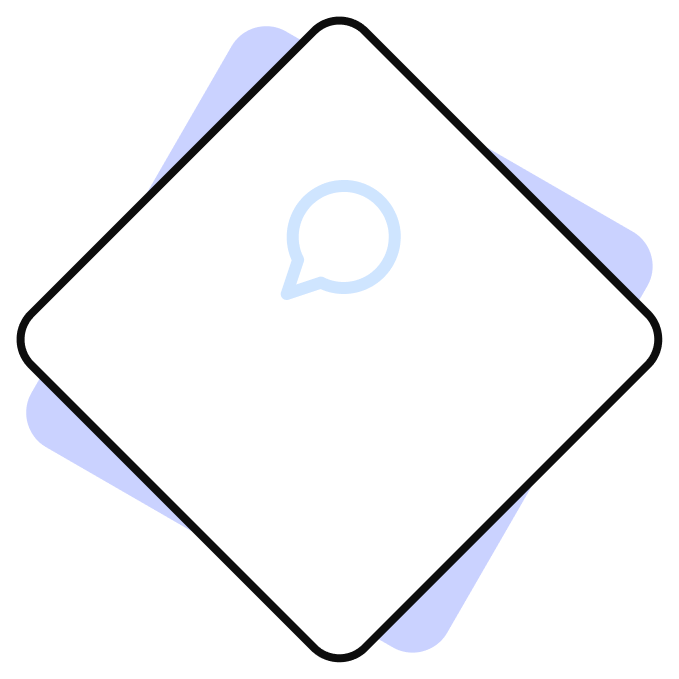
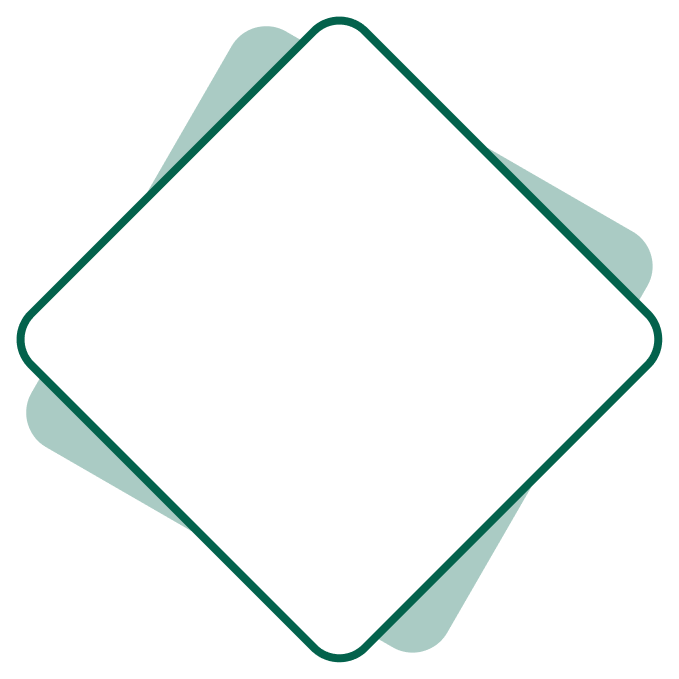
edited some sections was made footer and edited 1st section

diff --git a/landing.html b/landing.html
@@ -91,24 +91,38 @@
                         </div>
                     </div>
                     <div class="col-lg-6">
-                        <div class="diamond-container">
-                            <div class="diamond top">
-                                <!-- <img src="images/part.svg" alt=""> -->
-                                <p>Точность<br>исполнения</p>
+                        <div class="diamond-section">
+                            <div class="diamond-container">
+                                <div class="diamond top">
+                                    <img src="images/part.png" alt="" class="diamond-bg">
+                                    <div class="diamond-content">
+                                        <img src="images/icon-accuracy.svg" alt="" />
+                                        <p>Точность<br>исполнения</p>
+                                    </div>
+                                </div>
+                                <div class="diamond left">
+                                    <img src="images/part.png" alt="" class="diamond-bg">
+                                    <div class="diamond-content">
+                                        <img src="images/icon-approach.svg" alt="" />
+                                        <p>Комплексный<br>подход</p>
+                                    </div>
+                                </div>
+                                <div class="diamond right">
+                                    <img src="images/part.png" alt="" class="diamond-bg">
+                                    <div class="diamond-content">
+                                        <img src="images/icon-client.svg" alt="" />
+                                        <p>Минимизация<br>нагрузки на клиента</p>
+                                    </div>
+                                </div>
+                                <div class="diamond bottom">
+                                    <img src="images/part.png" alt="" class="diamond-bg">
+                                    <div class="diamond-content">
+                                        <img src="images/icon-tech.svg" alt="" />
+                                        <p>Технологичность</p>
+                                    </div>
+                                </div>
+                                <div class="center-square"></div>
                             </div>
-                            <div class="diamond left">
-                                <img src="images/part.svg" alt="">
-                                <p>Комплекс<br>ный подход</p>
-                            </div>
-                            <div class="diamond right">
-                                <!-- <img src="images/part.svg" alt=""> -->
-                                <p>Минимиза<br>ция нагрузки<br>на клиента</p>
-                            </div>
-                            <div class="diamond bottom">
-                                <!-- <img src="images/part.svg" alt=""> -->
-                                <p>Технологичность</p>
-                            </div>
-                            <div class="center-square"></div>
                         </div>
                     </div>
                 </div>
@@ -208,29 +222,33 @@
             <div class="position-relative mx-auto belgisi">
                 <div class="position-absolute" style="top: 0; left: 0; width: 460px;">
                     <div
-                        class="p-3 rounded bg-primary border border-2 border-white text-white fw-semibold shadow-sm text-start">
-                        <strong>Идентификация</strong> — каждому товару присваивается уникальный DataMatrix-код
+                        class="p-3 fs-5 rounded bg-white border border-2 border-white text-corp fw-semibold shadow-sm text-start">
+                        <strong class="text-black">Идентификация</strong> — каждому товару присваивается уникальный
+                        DataMatrix-код
                     </div>
                 </div>
 
-                <div class="position-absolute" style="top: 100px; right: 0; width: 500px;">
+                <div class="position-absolute" style="top: 110px; right: 0; width: 500px;">
                     <div
-                        class="p-3 rounded bg-primary border border-2 border-white text-white fw-semibold shadow-sm text-start">
-                        <strong>Фиксация этапов</strong> — каждое перемещение и упаковка фиксируются в системе
+                        class="p-3 fs-5 rounded bg-white border border-2 border-white text-corp fw-semibold shadow-sm text-start">
+                        <strong class="text-black">Фиксация этапов</strong> — каждое перемещение и упаковка фиксируются
+                        в системе
                     </div>
                 </div>
 
-                <div class="position-absolute" style="top: 200px; left: 0; width: 460px;">
+                <div class="position-absolute" style="top: 220px; left: 0; width: 460px;">
                     <div
-                        class="p-3 rounded bg-primary border border-2 border-white text-white fw-semibold shadow-sm text-start">
-                        <strong>Публичная проверка</strong> — покупатель может отсканировать код и получить информацию
+                        class="p-3 fs-5 rounded bg-white border border-2 border-white text-corp fw-semibold shadow-sm text-start">
+                        <strong class="text-black">Публичная проверка</strong> — покупатель может отсканировать код и
+                        получить информацию
                     </div>
                 </div>
 
-                <div class="position-absolute" style="top: 300px; right: 0; width: 500px;">
+                <div class="position-absolute" style="top: 330px; right: 0; width: 500px;">
                     <div
-                        class="p-3 rounded bg-primary border border-2 border-white text-white fw-semibold shadow-sm text-start">
-                        <strong>Автоматическая верификация</strong> — система блокирует дублирующие или ошибочные коды
+                        class="p-3 fs-5 rounded bg-white border border-2 border-white text-corp fw-semibold shadow-sm text-start">
+                        <strong class="text-black">Автоматическая верификация</strong> — система блокирует дублирующие
+                        или ошибочные коды
                     </div>
                 </div>
             </div>
@@ -323,7 +341,7 @@
 
 
 
-    <!-- advantages for user & businesses (макет style) -->
+    <!-- advantages for user & businesses -->
     <section>
         <div class="container py-5">
             <h2 class="fw-bold display-5 mb-4" style="max-width: 600px;">Преимущества для потребителей<br>и бизнеса</h2>
@@ -443,7 +461,8 @@
                     </ul>
                 </div>
                 <div class="col-md-6 col-lg-6">
-                    <h3 class="fw-bold mb-2 border-bottom border-3 border-black d-inline-block">Печать и нанесение кодов:</h3>
+                    <h3 class="fw-bold mb-2 border-bottom border-3 border-black d-inline-block">Печать и нанесение
+                        кодов:</h3>
                     <ul class="list-unstyled mt-3 mb-0 fs-5">
                         <li>Поставка и настройка оборудования</li>
                         <li>Печать этикеток и маркировка товаров</li>
@@ -478,44 +497,107 @@
             <div class="row mb-5">
                 <div class="col-md-3 mb-4 mb-md-0 position-relative">
                     <p class="fw-bold mb-2">Фармацевтика и медицинские изделия</p>
-                    <span class="position-absolute top-0 end-0 text-body-tertiary" style="font-size:64px; opacity:0.12; right:10px; top:-30px;">01</span>
+                    <span class="position-absolute top-0 end-0 text-body-tertiary"
+                        style="font-size:64px; opacity:0.12; right:10px; top:-30px;">01</span>
                 </div>
                 <div class="col-md-3 mb-4 mb-md-0 position-relative">
                     <p class="fw-bold mb-2">Продукты питания и напитки</p>
-                    <span class="position-absolute top-0 end-0 text-body-tertiary" style="font-size:64px; opacity:0.12; right:10px; top:-30px;">02</span>
+                    <span class="position-absolute top-0 end-0 text-body-tertiary"
+                        style="font-size:64px; opacity:0.12; right:10px; top:-30px;">02</span>
                 </div>
                 <div class="col-md-3 mb-4 mb-md-0 position-relative">
                     <p class="fw-bold mb-2">Бытовая техника и электроника</p>
-                    <span class="position-absolute top-0 end-0 text-body-tertiary" style="font-size:64px; opacity:0.12; right:10px; top:-30px;">03</span>
+                    <span class="position-absolute top-0 end-0 text-body-tertiary"
+                        style="font-size:64px; opacity:0.12; right:10px; top:-30px;">03</span>
                 </div>
                 <div class="col-md-3 position-relative">
                     <p class="fw-bold mb-2">Табачная и алкогольная продукция</p>
-                    <span class="position-absolute top-0 end-0 text-body-tertiary" style="font-size:64px; opacity:0.12; right:10px; top:-30px;">04</span>
+                    <span class="position-absolute top-0 end-0 text-body-tertiary"
+                        style="font-size:64px; opacity:0.12; right:10px; top:-30px;">04</span>
                 </div>
             </div>
             <div class="mb-5 fs-5">
-                Среди наших клиентов — крупные предприятия с многолетней историей из Узбекистана, России, Турции и других стран. Мы гарантируем высокое качество услуг и полное соответствие нормативам маркировки.
+                Среди наших клиентов — крупные предприятия с многолетней историей из Узбекистана, России, Турции и
+                других стран. Мы гарантируем высокое качество услуг и полное соответствие нормативам маркировки.
             </div>
             <div class="py-5">
                 <h2 class="fw-bold text-center mb-5 pb-3 display-4">Свяжитесь с нами</h2>
                 <form class="row g-3 justify-content-center">
                     <div class="col-md-3">
-                        <input type="text" class="form-control form-control-lg shadow-none border-0 border-bottom rounded-0" placeholder="Введите имя*" required>
+                        <input type="text"
+                            class="form-control form-control-lg shadow-none border-0 border-bottom rounded-0"
+                            placeholder="Введите имя*" required>
                     </div>
                     <div class="col-md-3">
-                        <input type="tel" class="form-control form-control-lg border-0 shadow-none border-bottom rounded-0" placeholder="Введите номер телефона*" required>
+                        <input type="tel"
+                            class="form-control form-control-lg border-0 shadow-none border-bottom rounded-0"
+                            placeholder="Введите номер телефона*" required>
                     </div>
                     <div class="col-md-3">
-                        <input type="email" class="form-control form-control-lg border-0 shadow-none border-bottom rounded-0" placeholder="Введите почту*" required>
+                        <input type="email"
+                            class="form-control form-control-lg border-0 shadow-none border-bottom rounded-0"
+                            placeholder="Введите почту*" required>
                     </div>
                     <div class="col-12 text-center mt-4">
-                        <button type="submit" class="btn btn-primary px-5 py-2 rounded-pill fs-5 border-0 bg-corp">Отправить</button>
+                        <button type="submit"
+                            class="btn btn-primary px-5 py-2 rounded-pill fs-5 border-0 bg-corp">Отправить</button>
                     </div>
                 </form>
             </div>
         </div>
     </section>
-     
+
+    <!-- footer -->
+    <footer class="bg-corp text-white py-5">
+        <div class="container">
+            <div class="row">
+                <div class="col-md-3 mb-4">
+                    <h2 class="fw-bold">Scan Mark</h2>
+                    <p>Мы лучшие в своём деле</p>
+                    <p class="mb-1 pt-5">2025, Scan Mark</p>
+                    <a href="#" class="text-white text-decoration-none d-block">Конфиденциальность и<br>обработка
+                        персональных данных</a>
+                </div>
+
+                <div class="col-md-3 mb-4">
+                    <h6 class="fw-bold mb-4">О продукте</h6>
+                    <ul class="list-unstyled">
+                        <li class="mb-2"><a href="#" class="text-white text-decoration-none">Возможности</a></li>
+                        <li class="mb-2"><a href="#" class="text-white text-decoration-none">Преимущества</a></li>
+                        <li class="mb-2"><a href="#" class="text-white text-decoration-none">Поддержка</a></li>
+                        <li class="mb-2"><a href="#" class="text-white text-decoration-none">Обновления</a></li>
+                        <li class="mb-2"><a href="#" class="text-white text-decoration-none">Интеграции</a></li>
+                        <li><a href="#" class="text-white text-decoration-none">Документация</a></li>
+                    </ul>
+                </div>
+
+                <div class="col-md-3 mb-4">
+                    <h6 class="fw-bold mb-5">Тарифы и цены</h6>
+                    <h6 class="fw-bold mt-3 mb-3">О нас</h6>
+                    <ul class="list-unstyled">
+                        <li class="mb-2"><a href="#" class="text-white text-decoration-none">Константы</a></li>
+                        <li class="mb-2"><a href="#" class="text-white text-decoration-none">Экспертиза</a></li>
+                    </ul>
+                </div>
+
+                <div class="col-md-3 mb-4">
+                    <h5 class="fw-bold">+998 (90) 221-12-11</h5>
+                    <a href="#" class="text-white text-decoration-none d-block mb-3">Заказать обратный звонок</a>
+                    <div class="d-flex gap-2">
+                        <a href="#" class="bg-corp d-flex align-items-center justify-content-center hover"
+                            style="width: 48px; height: 48px; border-radius: 4px;">
+                            <i class="bi bi-telegram text-white fs-4"></i>
+                        </a>
+                        <a href="#" class="bg-corp d-flex align-items-center justify-content-center hover"
+                            style="width: 48px; height: 48px; border-radius: 4px;">
+                            <i class="bi bi-whatsapp text-white fs-4"></i>
+                        </a>
+                    </div>
+
+                </div>
+            </div>
+        </div>
+    </footer>
 
 
 

diff --git a/css/style.css b/css/style.css
@@ -2,10 +2,11 @@
 
 
 :root {
-  --text-corp: #012758;
-  --bg-corp: #436DFB;
-  --bg-corp-light: #598BE0;
-  --bg-corp-dark: #325488;
+  --text-corp: #00AE4C;
+  --bg-corp: #00AE4C;
+  --bg-corp-light: #D6F64B;
+  --bg-corp-dark: #03624C;
+  --bg-secondary: #E79251;
 }
 
 .text-corp {
@@ -23,6 +24,20 @@
 }
 .bg-corp-light:hover {
   background-color: var(--bg-corp);
+}
+
+.bg-secondary {
+  background-color: var(--bg-secondary);
+}
+
+.hover {
+  transition: all 0.3s ease;
+  color: #fff;
+  opacity: 0.8;
+}
+
+.hover:hover {
+  filter: brightness(1.2);
 }
 
 .bg-transparent {
@@ -43,64 +58,88 @@
   }
 
 
+.diamond-section {
+  display: flex;
+  justify-content: end;
+  align-items: center;
+  right: 0;
+  padding: -60px 0;
+  top: 0;
+  /* background: linear-gradient(135deg, #00b050, #00a14b); */
+}
+
 .diamond-container {
   position: relative;
-  width: 600px;
-  height: 600px;
-  margin: auto;
+  width: 530px;
+  height: 530px;
 }
 
 .diamond {
   position: absolute;
   width: 185px;
   height: 185px;
-  /* background: transparent; */
-  background-image: url('../images/part.svg');
   transform: rotate(45deg);
+}
+
+.diamond-bg {
+  position: absolute;
+  width: 100%;
+  height: 100%;
+  object-fit: cover;
+  z-index: 1;
+  border-radius: 20px;
+}
+
+.diamond-content {
+  position: absolute;
+  top: 0;
+  left: 0;
+  width: 100%;
+  height: 100%;
+  transform: rotate(-45deg);
   display: flex;
   flex-direction: column;
   align-items: center;
   justify-content: center;
   text-align: center;
+  z-index: 2;
 }
 
-.diamond img {
-  width: 60px;
-  height: 60px;
-  margin-bottom: 15px;
-  transform: rotate(-45deg);
+.diamond-content img {
+  width: 40px;
+  height: 40px;
+  margin-bottom: 10px;
 }
 
-.diamond p {
-  transform: rotate(-45deg);
+.diamond-content p {
   font-size: 16px;
-  color: #007BFF;
+  color: white;
   margin: 0;
-  padding: 0 10px;
+  line-height: 1.3;
 }
 
 .diamond.top {
   top: 0;
   left: 50%;
-  transform: translateX(-50%) rotate(45deg);
+  transform: translateX(-50%) rotate(20deg);
 }
 
 .diamond.bottom {
   bottom: 0;
   left: 50%;
-  transform: translateX(-50%) rotate(45deg);
+  transform: translateX(-50%) rotate(20deg);
 }
 
 .diamond.left {
   top: 50%;
   left: 0;
-  transform: translateY(-50%) rotate(45deg);
+  transform: translateY(-50%) rotate(20deg);
 }
 
 .diamond.right {
   top: 50%;
   right: 0;
-  transform: translateY(-50%) rotate(45deg);
+  transform: translateY(-50%) rotate(20deg);
 }
 
 .center-square {
@@ -109,10 +148,11 @@
   left: 50%;
   width: 30px;
   height: 30px;
-  background: #007BFF;
-  transform: translate(-50%, -50%);
+  background-color: var(--bg-corp-dark);
   border-radius: 4px;
+  transform: translate(-50%, -50%);
 }
+
 
 
 
